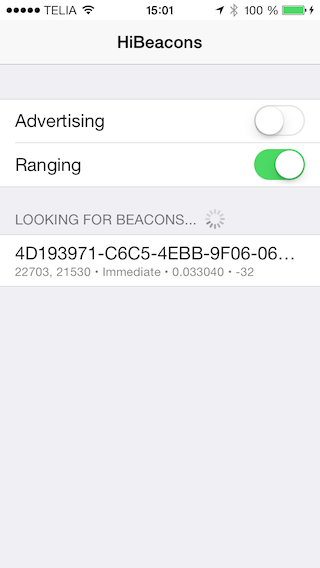
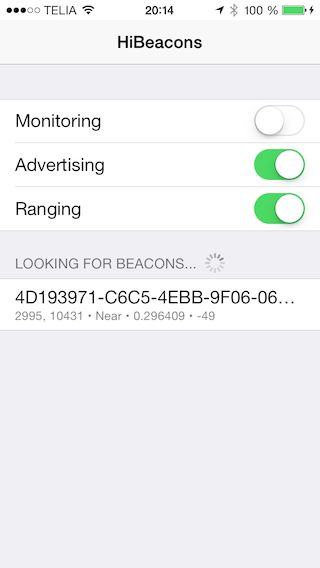
Update README.md to show the monitoring functionality

diff --git a/README.md b/README.md
@@ -2,14 +2,15 @@ HiBeacons
 =========
 **A demo app for the iBeacons API in iOS 7**
 
-HiBeacons is a fully functional demo app for the new iBeacons API in iOS 7. The app can be used to demonstrate both beacon advertising and ranging, by toggling on/off two switches. You can easily see any beacons in the vicinity, with all their info, under the 'Detected Beacons' section.
+HiBeacons is a fully functional demo app for the new iBeacons API in iOS 7. The app can be used to demonstrate beacon monitoring, advertising and ranging, by toggling on/off three switches. You can easily see any beacons in the vicinity, with all their info, under the 'Detected Beacons' section.
 
 ## Screenshot
 ![Screenshot](https://raw.github.com/nicktoumpelis/HiBeacons/master/screenshot.png)
 
 ## Notes
 
-- The app can only monitor a single beacon region, but can easily be extended for multiple.
+- Monitoring works when the app is in the background. You will get a local notification when entering a beacon region.
+- The app can only monitor and range a single beacon region, but can easily be extended for multiple.
 - You can find and set the UUID and identifier for the beacon (and the region) at the top of NTViewController.m. 
 - Major and minor integers are generated randomly every time a new advertising session starts. 
 - The app will not list itself as a beacon, even if you toggle advertising on. (It's how the API works.) You need to run another instance of the app for that.
